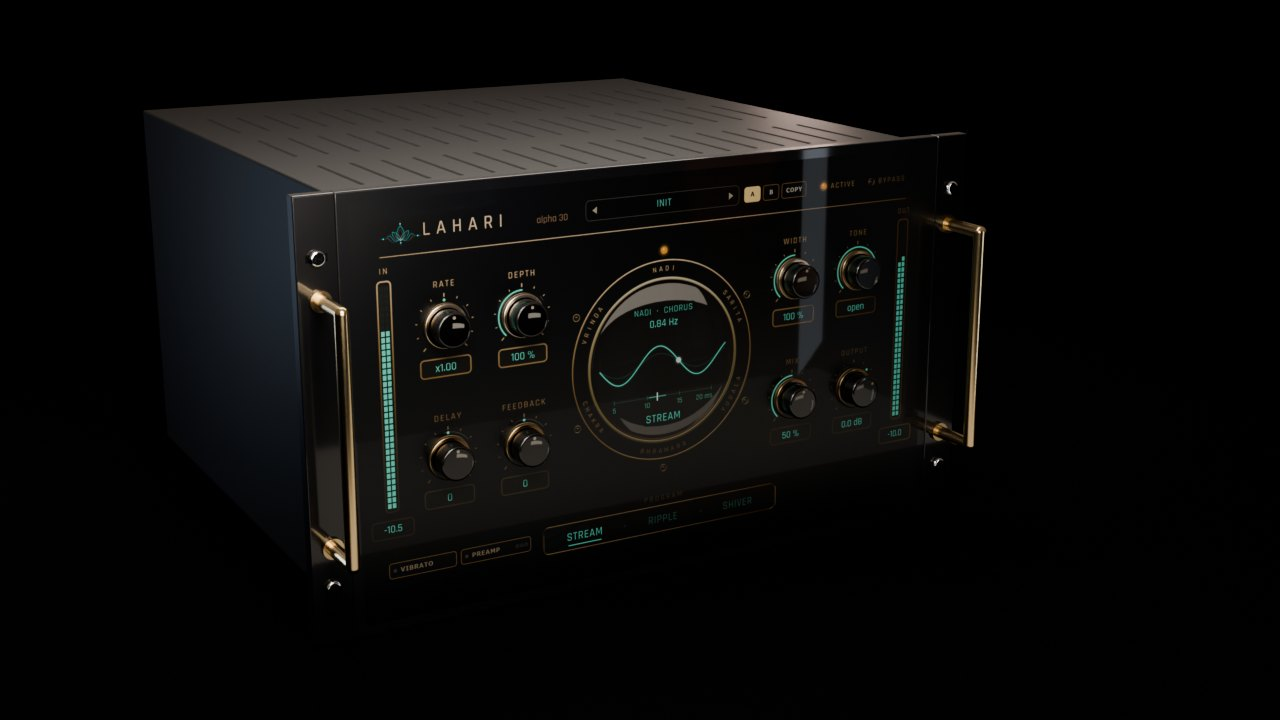
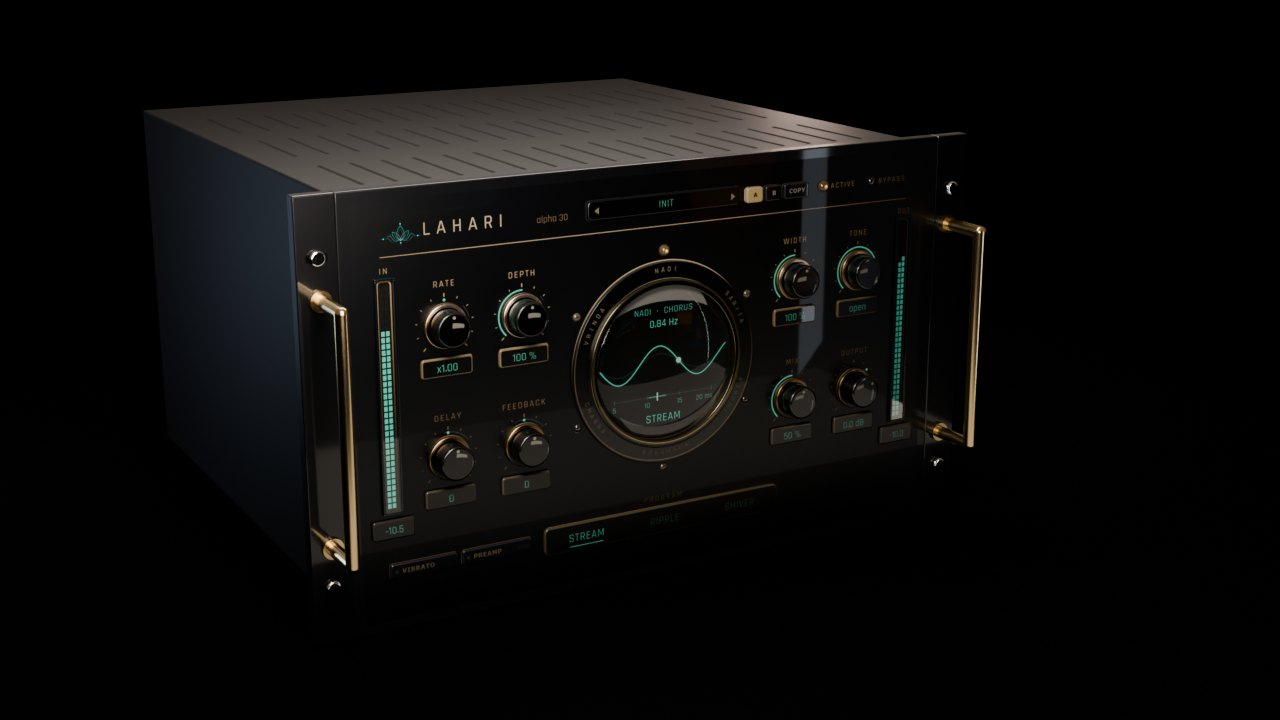
Lahari heroes: every control as hardware: the round display's rings and glass dome, header bar and keys, VU bezels under glass, program keys, pills, value boxes, lamps, the EFFECT lens, the bypass toggle, screws

diff --git a/tools/lahari_rack.py b/tools/lahari_rack.py
@@ -89,6 +89,85 @@ for (x, y, rs, rc, deg) in KN:
     bpy.ops.mesh.primitive_cylinder_add(vertices=160, radius=R_c, depth=top - hs, location=(cx, cy, hs + (top - hs) / 2)); k = bpy.context.object
     k.data.materials.append(m); bevel(k, R_c * 0.16, 8); smooth(k); planar_uv(k)
 
+# ---------- every other control as hardware (owner 2026-11-25: the round display, header, VU meters and keys read flat) ----------
+# Editor px from the 3x captures (the spec files predate the current header). Heights in mm: keys 3-6, bezels 3-6, the glass dome 8.
+MMU = 1.0 / MM_PER_PX / 100.0                   # scene units per mm
+def upd(o): bpy.context.view_layer.update(); planar_uv(o); return o
+def key(x0, y0, x1, y1, h_mm, rad=4, side=None, rough=0.35, coat=0.5, metal=0.0, emit=0.0):
+    """a raised part: its printed face on top, its sides in the colour of its printed edge"""
+    side = side or ring_col_rect(x0, y0, x1, y1)
+    o = K.rrect(x0, y0, x1, y1, rad, 0.0, h_mm * MMU, "key"); o.data.materials.append(print_mat("keym", side, rough, coat, metal, emit))
+    bevel(o, min(1.2 * MMU, (min(x1 - x0, y1 - y0) / 100.0) * 0.18), 3, 40); smooth(o, 40); return upd(o)
+def ring_col_rect(x0, y0, x1, y1):
+    k = cw / W; a, b = int(x0 * k) + 2, int(x1 * k) - 2; c, d = int(y0 * k) + 2, int(y1 * k) - 2
+    rows = pxs[chh - 1 - d:chh - 1 - c, a:b, :3]; edge = np.concatenate([rows[:3].reshape(-1, 3), rows[-3:].reshape(-1, 3)])
+    return tuple(float(v) * 0.8 for v in np.median(edge, axis=0))
+def frame(x0, y0, x1, y1, t, h_mm, rad=4, metal=0.0, glass=True):
+    """a bezel round a window: the printed frame raised, the window's print left on the floor under a glass sheet"""
+    side = ring_col_rect(x0, y0, x1, y1)
+    for (a, b, c, d) in ((x0, y0, x1, y0 + t), (x0, y1 - t, x1, y1), (x0, y0 + t, x0 + t, y1 - t), (x1 - t, y0 + t, x1, y1 - t)):
+        o = K.box((a + c) / 2 / 100 - W / 200, H / 200 - (b + d) / 2 / 100, (c - a) / 100, (d - b) / 100, 0.0, h_mm * MMU)
+        o.data.materials.append(print_mat("bezel", side, 0.3, 0.5, metal)); bevel(o, min(0.8 * MMU, t / 100 * 0.3), 2, 40); upd(o)
+    if glass: sheet(x0 + t, y0 + t, x1 - t, y1 - t, h_mm * MMU * 0.7)
+M_GLASS = bpy.data.materials.new("glass"); M_GLASS.use_nodes = True; _g = M_GLASS.node_tree
+for _n in list(_g.nodes): _g.nodes.remove(_n)
+_tr = _g.nodes.new("ShaderNodeBsdfTransparent"); _gl = _g.nodes.new("ShaderNodeBsdfGlossy"); _gl.inputs["Roughness"].default_value = 0.03
+_fr = _g.nodes.new("ShaderNodeFresnel"); _fr.inputs["IOR"].default_value = 1.5; _mx = _g.nodes.new("ShaderNodeMixShader"); _go = _g.nodes.new("ShaderNodeOutputMaterial")
+_g.links.new(_fr.outputs[0], _mx.inputs[0]); _g.links.new(_tr.outputs[0], _mx.inputs[1]); _g.links.new(_gl.outputs[0], _mx.inputs[2]); _g.links.new(_mx.outputs[0], _go.inputs["Surface"])
+def sheet(x0, y0, x1, y1, z):
+    o = K.box((x0 + x1) / 200 - W / 200, H / 200 - (y0 + y1) / 200, (x1 - x0) / 100, (y1 - y0) / 100, z, z + 0.002)
+    o.data.materials.append(M_GLASS); o.visible_shadow = False
+def ring(cx_, cy_, r0, r1, h_mm, metal=0.0, rough=0.3):
+    """a raised annulus (a bezel ring), its print on top"""
+    side = ring_col(cx_, cy_, r0, r1)
+    o = K.lathe([(r0 / 100, 0.0), (r1 / 100, 0.0), (r1 / 100, h_mm * MMU), (r0 / 100, h_mm * MMU)], 192, "ring")
+    o.location = (*P(cx_, cy_), 0); o.data.materials.append(print_mat("ringm", side, rough, 0.5, metal)); bevel(o, 0.6 * MMU, 3, 40); smooth(o, 40)
+    return upd(o)
+def dome(cx_, cy_, r, h_mm, m=None, emit=0.0):
+    """a lens, lamp or screw head: a flattened sphere standing on the panel, the capture printed on it"""
+    bpy.ops.mesh.primitive_uv_sphere_add(segments=64, ring_count=32, radius=r / 100, location=(*P(cx_, cy_), 0)); o = bpy.context.object
+    o.scale.z = h_mm * MMU / (r / 100); smooth(o, 80)
+    o.data.materials.append(m or print_mat("domem", ring_col(cx_, cy_, r * 0.8, r), 0.15, 1.0, 0.0, emit)); return upd(o)
+def toggle(cx_, cy_):
+    """a bat-handle toggle: a hex nut, a chrome bat, a ball tip"""
+    x_, y_ = P(cx_, cy_); ch = mat("chrome2", (0.86, 0.86, 0.88), metal=1.0, rough=0.12)
+    bpy.ops.mesh.primitive_cylinder_add(vertices=6, radius=12 / 100, depth=3 * MMU, location=(x_, y_, 1.5 * MMU)); bpy.context.object.data.materials.append(ch)
+    bpy.ops.mesh.primitive_cylinder_add(vertices=32, radius=3.2 / 100, depth=16 * MMU, location=(x_, y_ + 4 / 100, 9 * MMU))
+    b_ = bpy.context.object; b_.rotation_euler.x = math.radians(-22); b_.data.materials.append(ch); smooth(b_)
+    bpy.ops.mesh.primitive_uv_sphere_add(radius=4.5 / 100, location=(x_, y_ + 7.5 / 100, 17 * MMU)); bpy.context.object.data.materials.append(ch); smooth(bpy.context.object)
+    for o in bpy.data.objects:           # the printed toggle under it stays on the panel: hide nothing, it reads as the nut's shadow
+        pass
+
+if SKIN == "fantasy":
+    key(330, 27, 569, 54, 3.0, rad=8)                                  # the preset bar
+    for a, b in ((578, 605), (609, 636), (640, 682)): key(a, 31, b, 53, 4.0, rad=4)      # A, B, COPY
+    dome(711, 41, 9, 4.0, emit=0.6); dome(795, 41, 7, 3.0)             # ACTIVE / BYPASS lamps
+    ring(450, 264, 118, 143, 3.0)                                      # the astrolabe's outer ring (unit names engraved)
+    ring(450, 264, 110, 120, 6.0, metal=0.9, rough=0.22)               # its gold bezel
+    bpy.ops.mesh.primitive_uv_sphere_add(segments=96, ring_count=48, radius=110 / 100, location=(*P(450, 264), 0))   # the glass dome
+    gd = bpy.context.object; gd.scale.z = 8.0 * MMU / 1.10; smooth(gd, 80); gd.data.materials.append(M_GLASS); gd.visible_shadow = False
+    dome(450, 106, 8, 4.0, emit=0.8)                                   # the lamp above it
+    for (sx_, sy_) in ((315, 183), (585, 183), (315, 338), (585, 338), (450, 417)): dome(sx_, sy_, 6, 2.0)   # screws round it
+    key(260, 473, 640, 513, 3.0, rad=8)                                # the program bar
+    key(36, 480, 131, 501, 3.0, rad=4); key(138, 480, 241, 501, 3.0, rad=4)   # Vibrato, Preamp
+    key(14, 418, 73, 445, 2.5, rad=4); key(826, 418, 885, 445, 2.5, rad=4)    # the meter readouts
+    for (a, b) in ((30, 58), (842, 870)): frame(a, 98, b, 412, 3, 3.0, rad=2)  # the LED meter columns
+    for xx in (125, 235, 665, 775):                                    # the value boxes under the knobs
+        for yy in (224, 402): key(xx - 36, yy - 13, xx + 36, yy + 13, 2.5, rad=4)
+else:
+    key(59, 21, 279, 95, 3.0, rad=4)                                   # the logo plate
+    frame(348, 29, 552, 77, 6, 3.0, rad=4)                             # the preset display's bezel
+    key(304, 34, 342, 72, 6.0, rad=3); key(558, 34, 596, 72, 6.0, rad=3)      # preset < >
+    for a, b in ((602, 620), (624, 642), (646, 680)): key(a, 44, b, 62, 3.5, rad=3)      # A, B, COPY
+    ring(710, 56, 19, 24, 3.0); dome(710, 56, 19, 8.0, emit=0.5)       # EFFECT: a red lens in its collar
+    toggle(795, 55)                                                    # BYPASS
+    for (sx_, sy_) in ((46, 56), (854, 56), (46, 136), (854, 136)): dome(sx_, sy_, 6, 2.0)
+    for (a, b) in ((58, 228), (672, 842)): frame(a, 160, b, 290, 8, 5.0, rad=6)   # the VU meters
+    for (c, d) in ((162, 208), (216, 262), (270, 316)): key(525, c, 647, d, 6.0, rad=3)  # the program keys
+    key(254, 288, 345, 304, 2.5, rad=6); key(254, 309, 345, 325, 2.5, rad=6)  # Vibrato, Preamp
+    for xx in (107, 205, 303, 401, 499, 597, 695, 793): key(xx - 29, 504, xx + 29, 521, 2.0, rad=2)   # the value boxes
+    for (sx_, sy_) in ((46, 543), (854, 543)): dome(sx_, sy_, 6, 2.0)
+
 # ---------- the rack: ears, handles, crinkle chassis (the Noir rack shots, scaled to this face) ----------
 U = W / 1280.0                                 # the Noir rack's parts were sized for a 1280 px face
 EAR, CD = 0.78 * U, 13.0 * U
